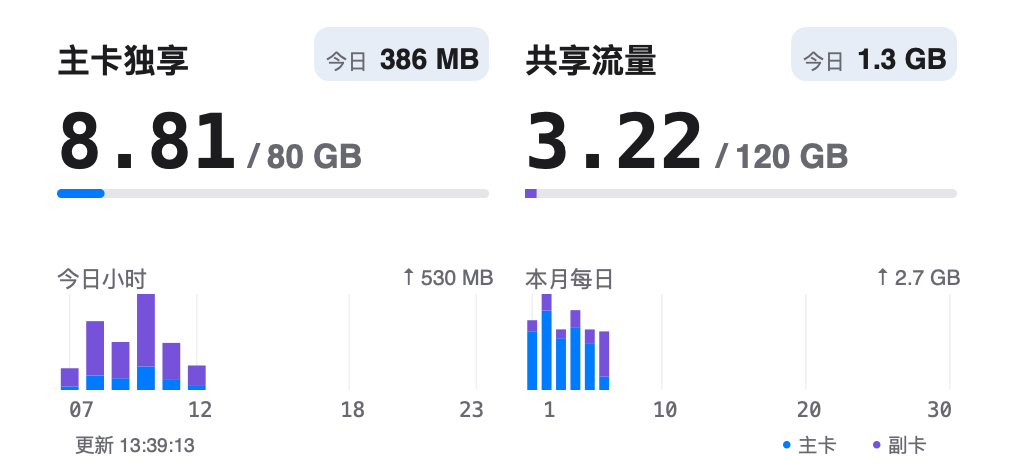
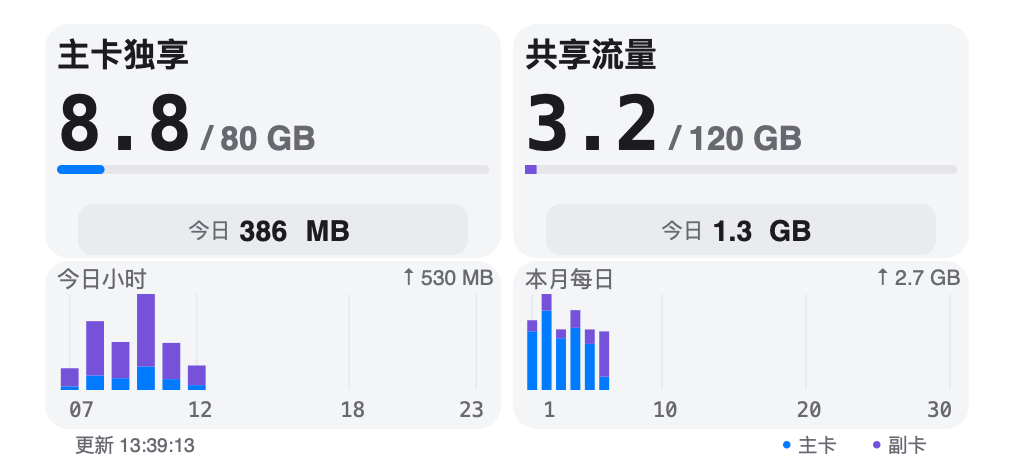
Refine Unicom widget panels and usage formatting

diff --git a/scriptable/UnicomFlow.js b/scriptable/UnicomFlow.js
@@ -40,7 +40,8 @@ const UF = {
   folder: 'UnicomFlow',
   usageFont: 'SF Mono Medium', totalFont: '系统 Medium', todayFont: '系统 Medium',
   usageFontSize: 25, totalFontSize: 11, todayFontSize: 9.5, titleFontSize: null,
-  bg: '1C1C1E', text: 'F5F5F7', muted: 'A4A4AA', track: '454548', todayBg: '32323A',
+  sectionBackground: true,
+  bg: '1C1C1E', text: 'F5F5F7', muted: 'A4A4AA', track: '454548', panelBg: '28282C', todayBg: '37373D',
   blue: '0A94FF', purple: '8A73FF', warning: 'FFD166', gridMajor: '38383C', gridMinor: '27272B',
 };
 const UF_DEFAULTS = { ...UF };
@@ -72,8 +73,8 @@ function normalizedTitleSize(value) {
 }
 
 const UF_THEMES = {
-  黑色: { bg: '1C1C1E', text: 'F5F5F7', muted: 'A4A4AA', track: '454548', todayBg: '32323A', blue: '0A94FF', purple: '8A73FF', warning: 'FFD166', gridMajor: '38383C', gridMinor: '27272B' },
-  白色: { bg: 'FFFFFF', text: '1C1C1E', muted: '686870', track: 'E5E5EA', todayBg: 'E6EDF6', blue: '007AFF', purple: '7552D9', warning: '946200', gridMajor: 'D1D1D6', gridMinor: 'F0F0F3' },
+  黑色: { bg: '1C1C1E', text: 'F5F5F7', muted: 'A4A4AA', track: '454548', panelBg: '28282C', todayBg: '37373D', blue: '0A94FF', purple: '8A73FF', warning: 'FFD166', gridMajor: '38383C', gridMinor: '333337' },
+  白色: { bg: 'FFFFFF', text: '1C1C1E', muted: '686870', track: 'E5E5EA', panelBg: 'F4F5F7', todayBg: 'E9EBEF', blue: '007AFF', purple: '7552D9', warning: '946200', gridMajor: 'D1D1D6', gridMinor: 'E7E8EC' },
 };
 
 function applyTheme(settings = {}) {
@@ -933,40 +934,15 @@ function todayBuckets(history, at) {
   return buckets;
 }
 
-// 仅压缩组件中的夜间横轴，不修改历史、统计页或其余小时归属。
+// 仅裁剪综合中号的前导低用量小时；至少12列，不修改历史或小时归属。
 function widgetHourSlots(history, at) {
   const report = hourlyReport(history, at);
   const slots = report.days.map((day, index) => ({ ...day, samples: day.intervals, weight: 1,
     label: [0, 6, 12, 18, 23].includes(index) ? String(index).padStart(2, '0') : '' }));
-  const start = new Date(new Date(at).getFullYear(), new Date(at).getMonth(), new Date(at).getDate()).getTime();
-  const end = new Date(start).setHours(6);
-  if (at < end) return slots;
-  const intervals = (history.events || []).filter(e => Number.isFinite(e.from) && Number.isFinite(e.at)
-    && e.from < e.at && e.at <= at && Number.isFinite(e.mb) && e.mb >= 0 && e.from < end && e.at > start)
-    .sort((a, b) => a.from - b.from);
-  let covered = start;
-  for (const e of intervals) {
-    if (e.from > covered) break;
-    covered = Math.max(covered, e.at);
-  }
-  // 边界区间不拆分；把整段用量计入阈值上界，宁可不折叠，也不漏掉跨边界的大用量。
-  if (covered < end || intervals.reduce((sum, e) => sum + e.mb, 0) >= 10) return slots;
-  // 正好06:00结束的区间属于夜间边界；仅在折叠视图中移入夜间柱，从06时柱扣除一次。
-  const boundary = intervals.filter(e => e.at === end && eventDate(e) === dayKey(at)
-    && new Date(e.assignedAt == null ? e.at : e.assignedAt).getHours() === 6);
-  const boundaryParts = usageSummary(boundary);
-  if (boundary.length) {
-    const six = slots[6];
-    for (const key of ['mb', 'mainMB', 'viceMB', 'unknownMB']) six[key] = Math.max(0, six[key] - boundaryParts[key]);
-    six.samples = six.intervals = Math.max(0, six.intervals - boundary.length);
-    if (!six.samples) for (const key of ['mb', 'mainMB', 'viceMB', 'unknownMB']) six[key] = null;
-  }
-  // 隐藏低用量夜间，不显示合并柱；白天从首个有用量小时起，后续小时连续保留。
-  // 尚无白天用量时保留06–23的位置；今日合计仍直接取原始历史，包含隐藏的夜间。
-  const active = slots.findIndex((d, index) => index >= 6 && !d.future && d.samples && d.mb > 0);
-  const first = active < 0 ? 6 : active;
+  const active = slots.findIndex(d => !d.future && d.samples && d.mb > 10);
+  const first = active < 0 ? 0 : Math.min(active, 12);
   return slots.slice(first).map((d, index) => ({ ...d,
-    label: index === 0 || [12, 18, 23].includes(index + first) ? String(index + first).padStart(2, '0') : '' }));
+    label: index === 0 || [6, 12, 18, 23].includes(index + first) ? String(index + first).padStart(2, '0') : '' }));
 }
 
 // ---- 手机端存储与请求 ----
@@ -1234,28 +1210,42 @@ function drawMetric(ctx, metric, label, x, y, width, compact, today = false, dai
 
 function drawCombinedMetric(ctx, metric, label, daily, x, width) {
   const title = ['通用', '定向'].includes(label) ? '数据流量·' + label : label;
-  const todayValue = formatMB(daily, 'daily').replace(/(MB|GB)$/, ' $1');
-  const stampLimit = width * 0.55, stampLabel = 7;
-  const todaySize = Math.min(UF.todayFontSize, (stampLimit - 26) / Math.max(1, numberWidth(todayValue, 1, 'today')));
-  const stampWidth = 26 + numberWidth(todayValue, todaySize, 'today'), stampX = x + width - stampWidth;
-  const titleWidth = stampX - x - 5;
+  const todayValue = formatMB(daily, 'daily');
+  const todayMatch = todayValue.match(/^(.*?)(MB|GB)$/);
+  const todayRuns = todayMatch ? [todayMatch[1], todayMatch[2]] : [todayValue];
+  const stampWidth = width - 14, stampLabel = 7, stampY = 68, stampH = 17;
+  // 整串含空格时真机会把MB/GB换到下一行；数字、单位分开绘制，并为字体实际字宽留余量。
+  const gap = 2, padding = 2;
+  const runUnits = todayRuns.map((run, index) => numberWidth(run, 1, 'today') * (index ? 1.2 : 1.05));
+  const todaySize = Math.min(UF.todayFontSize, (stampWidth - 25 - padding * todayRuns.length - gap * (todayRuns.length - 1))
+    / Math.max(1, runUnits.reduce((sum, n) => sum + n, 0)));
+  const runWidths = runUnits.map(n => n * todaySize + padding);
+  const groupWidth = 17 + runWidths.reduce((sum, n) => sum + n, 0) + gap * (todayRuns.length - 1);
+  const stampX = x + 7, groupX = x + (width - groupWidth) / 2;
+  const titleWidth = width;
   const titleSize = Math.min(UF.titleFontSize || 11, titleWidth / Math.max(1, title.length));
-  text(ctx, title, x, 13, titleWidth, 16, titleSize, UF.text, false, false, true);
-  roundedRect(ctx, stampX, 9, stampWidth, 18, 5, UF.todayBg);
-  text(ctx, '今日', stampX + 4, 16, 14, 11, stampLabel, UF.muted);
-  text(ctx, todayValue, stampX + 22, 23 - todaySize, stampWidth - 26, 18, todaySize, UF.text, 'today');
+  text(ctx, title, x, 11, titleWidth, 14, titleSize, UF.text, false, false, true);
+  if (UF.sectionBackground) roundedRect(ctx, stampX, stampY, stampWidth, stampH, 5, UF.todayBg);
+  // 数字、单位同字号同高度；标签与数值各自按行高垂直居中，整组水平居中。
+  const centeredY = size => stampY + (stampH - size * 1.2) / 2;
+  text(ctx, '今日', groupX, centeredY(stampLabel), 14, stampLabel * 1.2, stampLabel, UF.muted);
+  let todayX = groupX + 17;
+  todayRuns.forEach((run, index) => {
+    text(ctx, run, todayX, centeredY(todaySize), runWidths[index], todaySize * 1.2, todaySize, UF.text, 'today');
+    todayX += runWidths[index] + gap;
+  });
   const used = metric ? metric.used / 1024 : null;
-  const primary = used == null ? '—' : used > 0 && used < 0.01 ? '<0.01' : used.toFixed(2);
+  const primary = used == null ? '—' : used > 0 && used < 0.1 ? '<0.1' : used.toFixed(1);
   const quota = metric ? metric.total == null ? ' / 不限量' : ` / ${formatGB(metric.total, true)} GB` : '';
   const suffix = metric && metric.total == null ? ' GB' + quota : quota;
   const quotaSize = UF.totalFontSize;
   const primarySize = Math.min(UF.usageFontSize, (width - numberWidth(suffix, quotaSize, 'total') - 2)
     / Math.max(1, numberWidth(primary, 1, 'usage')));
   const valueWidth = numberWidth(primary, primarySize, 'usage');
-  text(ctx, primary, x, 31, valueWidth + 2, 29, primarySize, UF.text, 'number');
-  if (suffix) text(ctx, suffix, x + valueWidth + 2, 31 + primarySize - quotaSize,
+  text(ctx, primary, x, 25, valueWidth + 2, 29, primarySize, UF.text, 'number');
+  if (suffix) text(ctx, suffix, x + valueWidth + 2, 25 + primarySize - quotaSize,
     width - valueWidth - 2, 17, quotaSize, UF.muted, 'total');
-  const trackY = 63, trackH = 3;
+  const trackY = 55, trackH = 3;
   roundedRect(ctx, x, trackY, width, trackH, 1.5, UF.track);
   const c = metric && metric.composition;
   if (metric && metric.total > 0 && metric.used > 0) {
@@ -1266,18 +1256,18 @@ function drawCombinedMetric(ctx, metric, label, daily, x, width) {
       if (c.vice > 0) { ctx.setFillColor(new Color(UF.purple)); ctx.fillRect(new Rect(x + c.main * scale, trackY, c.vice * scale, trackH)); }
     } else if (!c) roundedRect(ctx, x, trackY, metric.used * scale, trackH, 1.5, UF.blue);
   }
-  if (c && !c.complete) text(ctx, '明细未确认', x, 67, width, 9, 6.5, UF.warning);
+  if (c && !c.complete) text(ctx, '明细未确认', x, 59, width, 8, 6.5, UF.warning);
   else if (c && c.main > 0) {
     const half = width / 2;
     for (const [index, name, value, color] of [[0, '主', c.main, UF.blue], [1, '副', c.vice, UF.purple]]) {
-      roundedRect(ctx, x + index * half, 69, 2, 2, 1, color);
-      text(ctx, `${name} ${formatMB(value).replace(/(MB|GB)$/, ' $1')}`, x + index * half + 4, 67,
-        half - 4, 9, 6.5, UF.muted);
+      roundedRect(ctx, x + index * half, 61, 2, 2, 1, color);
+      text(ctx, `${name} ${formatMB(value).replace(/(MB|GB)$/, ' $1')}`, x + index * half + 4, 59,
+        half - 4, 8, 6.5, UF.muted);
     }
   }
 }
 
-function drawCompactChart(ctx, slots, title, x, y, width) {
+function drawCompactChart(ctx, slots, title, x, y, width, hourly = false) {
   const sampled = slots.filter(d => !d.future && d.samples && d.mb != null);
   const peak = Math.max(0, ...sampled.map(d => d.mb)), max = Math.max(1, peak);
   const peakLabel = sampled.length ? formatMB(peak, 'daily').replace(/(MB|GB)$/, ' $1') : '—';
@@ -1311,6 +1301,7 @@ function drawCompactChart(ctx, slots, title, x, y, width) {
     }
     offset += cell;
   });
+  if (hourly && !peak) text(ctx, sampled.length ? '今日暂无用量' : '暂无记录', x, y + 9, width, 12, 7, UF.muted, false, true);
 }
 
 function renderImage(result, medium, width, height, mode = 'month') {
@@ -1335,11 +1326,16 @@ function renderImage(result, medium, width, height, mode = 'month') {
   const buckets = medium && today ? todayBuckets(result.history, now) : [];
   if (combined) {
     const leftX = pad + 6, col = (width - 2 * leftX - 12) / 2, rightX = leftX + col + 12;
+    // 底板只负责绘制，不参与内容坐标计算；相邻底板留4点缝隙，内容四周留4点。
+    if (UF.sectionBackground) for (const x of [leftX, rightX]) {
+      roundedRect(ctx, x - 4, 8, col + 8, 78, 8, UF.panelBg);
+      roundedRect(ctx, x - 4, 87, col + 8, 56, 8, UF.panelBg);
+    }
     drawCombinedMetric(ctx, metrics.left, metrics.leftLabel, daily[0], leftX, col);
     drawCombinedMetric(ctx, metrics.right, metrics.rightLabel, daily[1], rightX, col);
-    // 下半双图直接使用整卡背景，靠12点留白和列对齐分区。
+    // 下半双图的坐标与底色开关无关。
     const chartY = 98;
-    drawCompactChart(ctx, widgetHourSlots(result.history, now), '今日小时', leftX, chartY, col);
+    drawCompactChart(ctx, widgetHourSlots(result.history, now), '今日小时', leftX, chartY, col, true);
     const month = monthlyReport(result.history, now);
     const days = month.days.map((d, index) => ({ ...d, samples: d.intervals,
       label: [0, 9, 19, month.days.length - 1].includes(index) ? String(index + 1) : '' }));
@@ -1522,6 +1518,10 @@ function createWidgetClass(DmYY) {
         this.settings.mediumTypographyDefaultsApplied = true;
         changed = true;
       }
+      const sectionBackground = String(![false, 'false'].includes(this.settings.sectionBackground));
+      if (this.settings.sectionBackground !== sectionBackground) {
+        this.settings.sectionBackground = sectionBackground; changed = true;
+      }
       if (changed) this.saveSettings(false);
       this.name = '联通流量';
       this.en = 'UnicomFlow';
@@ -1529,6 +1529,7 @@ function createWidgetClass(DmYY) {
       this.result = null;
       this.failure = '';
       applyTheme(this.settings);
+      UF.sectionBackground = ![false, 'false'].includes(this.settings.sectionBackground);
       if (!this.settings.refreshAfterDate) this.settings.refreshAfterDate = String(UF_DEFAULTS.refreshMinutes);
       // 原间隔同时控制请求和组件，升级时保留用户已设置的查询频率。
       if (this.settings.dataRequestMinutes == null) this.settings.dataRequestMinutes = this.settings.refreshAfterDate;
@@ -1549,6 +1550,7 @@ function createWidgetClass(DmYY) {
       const crossLimit = Number(this.settings.crossDayLimitMB == null ? UF_DEFAULTS.crossDayLimitMB : this.settings.crossDayLimitMB);
       UF.crossDayLimitMB = Number.isFinite(crossLimit) && crossLimit >= 0 && crossLimit <= 1024 ? crossLimit : UF_DEFAULTS.crossDayLimitMB;
       applyTheme(this.settings);
+      UF.sectionBackground = ![false, 'false'].includes(this.settings.sectionBackground);
       UF.titleFontSize = normalizedTitleSize(this.settings.titleFontSize);
       for (const kind of ['usage', 'total', 'today']) {
         UF[kind + 'Font'] = normalizedNumberFont(this.settings[kind + 'Font'], UF_DEFAULTS[kind + 'Font']);
@@ -1831,12 +1833,12 @@ function createWidgetClass(DmYY) {
           options: Object.keys(UF_NUMBER_FONTS), defaultValue: this.settings[kind + 'Font'], icon: { name: 'textformat', color: '#007AFF' } },
         { name: kind + 'FontSize', val: kind + 'FontSize', title: '文字大小', type: 'input',
           defaultValue: String(normalizedFontSize(this.settings[kind + 'FontSize'], kind)),
-          desc: `${kind === 'today' ? '综合中号标题右侧' : '小号、中号共用'}；输入 ${min}—${max}，支持小数；内容过宽时自动缩小`,
+          desc: `${kind === 'today' ? '综合中号今日强调行' : '小号、中号共用'}；输入 ${min}—${max}，支持小数；内容过宽时自动缩小`,
           icon: { name: 'textformat.size', color: '#007AFF' },
           onClick: async (_, __, view) => {
             const key = kind + 'FontSize';
             const a = new Alert(); a.title = title + '大小';
-            a.message = `${kind === 'today' ? '综合中号标题右侧今日用量。' : '小号、中号共用。'}请输入 ${min}—${max} 之间的字号，支持小数；内容过宽时自动缩小。`;
+            a.message = `${kind === 'today' ? '综合中号今日强调行。' : '小号、中号共用。'}请输入 ${min}—${max} 之间的字号，支持小数；内容过宽时自动缩小。`;
             a.addTextField(String(UF_DEFAULTS[key]), String(normalizedFontSize(this.settings[key], kind)));
             a.addAction('保存'); a.addCancelAction('取消');
             if (await a.presentAlert() < 0) return;
@@ -1913,6 +1915,8 @@ function createWidgetClass(DmYY) {
       this.registerAction({ title: '组件配置', menu: [
         action('flowUpdate', '脚本更新', 'arrow.down.circle', '#007AFF', () => this.checkAndUpdateScript()),
         { name: 'theme', val: 'theme', title: '组件主题', type: 'select', options: ['黑色', '白色'], defaultValue: '黑色', icon: { name: 'circle.lefthalf.filled', color: '#555555' } },
+        { name: 'sectionBackground', val: 'sectionBackground', title: '内容分区底色', type: 'switch', defaultValue: 'true',
+          desc: '仅综合中号；开关只改变底色，内容位置与尺寸保持一致', icon: { name: 'square.grid.2x2.fill', color: '#8E8E93' } },
         action('flowFonts', '字体与字号', 'textformat', '#007AFF', () => this.fontSettings()),
         action('flowColors', '颜色配置', 'paintpalette.fill', '#AF52DE', () => this.colorSettings()),
         action('flowRefreshSettings', '刷新设置', 'timer', '#34C759', () => this.refreshSettings()),

diff --git a/docs/unicom-flow/README.md b/docs/unicom-flow/README.md
@@ -19,11 +19,13 @@
 
 今日视图标题为“共享流量 · 今日”／“主卡独享 · 今日”（未识别共享属性时沿用通用／定向分类），大数字显示该组套餐的今日已记录增量；下方固定使用 GB，格式如 `6.8 / 120 GB`，斜杠两侧和数字与单位间各留固定 2 点间距，不加“本月”文字、不显示百分比。竖条仍表示月套餐已用比例。图表只保留主卡／副卡色点和名称，不重复用量数字；共享池下方不再额外显示逐卡月用量。今日中号继续显示一张完整宽度的小时图，两种模式的底部图例统一为“主卡／副卡”，不显示用量数字。
 
-本月中号采用综合布局，不新增参数：左主卡独享、右共享流量，未识别共享属性时回退通用／定向。卡片上半部保持白底，两列套餐不套独立底板：标题右侧用小胶囊显示“今日”及合计，月已用大数字和总量同排（如 `8.81 / 80 GB`），底部保留2—3点高的横向月进度条，不显示百分比。月已用和总量继续分别使用菜单原有的“用量文字”“总量与百分比”字体、字号设置；今日胶囊的数字及单位使用新增“今日用量（综合中号）”独立设置。白色、黑色主题均有对应浅底。共享池主卡用量确认为0且成员合计完整时，不显示逐卡明细；主卡实际共享用量大于0时，在月进度条下显示一行本月主／副卡用量；成员缺失或合计不符时显示“明细未确认”，保留灰条，不猜测。共享月进度条以套餐总量为整条宽度，蓝色主卡、紫色副卡相邻堆叠，不夸大短段；今日不再重复逐卡数字。
+本月中号采用综合布局，不新增参数：左主卡独享、右共享流量，未识别共享属性时回退通用／定向。上方显示套餐标题、同排月已用和总量（如 `8.8 / 80 GB`，月已用保留一位小数，非零不足0.1 GB显示 `<0.1`，零显示 `0.0`），横向月进度条不显示百分比；进度条下方的“今日”强调行整体水平居中，标签、数值与单位分别按文字行高垂直居中，底框两侧各内收7点。月已用、总量和今日继续分别使用菜单中的三组字体与字号；今日数字、MB／GB分开绘制，采用相同字体、字重、字号及2点间距，避免真机单位换行。共享池主卡用量确认为0且成员合计完整时，不显示逐卡明细；主卡实际共享用量大于0时，在月进度条和今日行之间保留一行本月主／副卡用量；成员缺失或合计不符时显示“明细未确认”，保留灰条，不猜测。共享月进度条以套餐总量为整条宽度，蓝色主卡、紫色副卡相邻堆叠，不夸大短段；今日不重复逐卡数字。
 
-综合中号底部左侧为“今日小时”，右侧为“本月每日”，都统计全部套餐；蓝色主卡包含独享和共享，紫色副卡为其共享用量，未知归属使用提示色。图表分区从158点设计高度的79点开始，严格位于下半部，直接使用整卡背景，不铺图表底色；靠12点列间距与上方套餐列对齐来区分，不加底板、描边或分隔线，仅保留标题右侧今日胶囊的浅底强调；两图分别缩放并显示峰值。更新时间在左下角、图例在右下角；综合中号两者分别向中间内收10点并下移4点，保留圆角安全区，双图刻度与底部信息保留独立空间。双位小时／日期标签至少预留14点宽及11点高，避免真机截断。没有采样和未来位置留空，真实零值才画短标记。月图按实际月份保留28—31个逐日位置，只标1、10、20及月末，不添加今日黑点标记。
+“组件配置 → 内容分区底色”开关默认开启，仅影响本月综合中号。两块套餐区与两块图表区使用统一中性底色，白色主题浅灰、黑色主题深灰；今日条使用稍深一级的中性色，不用蓝紫色给整块染色。底板在既定内容坐标后方绘制，水平间隙4点，内容左右内边距4点，纵向留白收紧；无描边。关闭时只移除分区底板和今日条底色，文字、进度条、图表、刻度、更新时间、图例的位置、字号及尺寸完全不变；小号与独立今日中号不受开关影响。
 
-仅综合中号的小时图会隐藏低用量夜间：00—06点已完整结束、有效采样区间连续覆盖全段，且包含跨边界区间在内的用量上界严格小于10 MB时，不画“00–06”合并柱或夜间数值；横轴从06点后首个有正用量的小时起显示，例如07，并连续保留至23点，中间的零值、缺采样和未来位置不删除。尚无白天正用量时保留06—23的位置。正好06:00结束的夜间区间不在06时重复绘制。隐藏的夜间仍计入今日总量；达到10 MB、06点前、区间有缺口或跨边界用量无法确认时保留完整00—23。仅改变综合中号显示，不修改历史、独立今日中号或统计页。
+综合中号底部左侧为“今日小时”，右侧为“本月每日”，都统计全部套餐；蓝色主卡包含独享和共享，紫色副卡为其共享用量，未知归属使用提示色。两图固定于下半部，分别缩放并显示峰值。更新时间在左下角、图例在右下角；综合中号两者分别向中间内收10点并下移4点，保留圆角安全区，双图刻度与底部信息保留独立空间。双位小时／日期标签至少预留14点宽及11点高，避免真机截断。没有采样和未来位置留空，真实零值才画短标记。小时图没有记录时显示“暂无记录”，有采样且用量确认为零时显示“今日暂无用量”；微量仍绘制实际柱子。月图按实际月份保留28—31个逐日位置，只标1、10、20及月末，不添加今日黑点标记。
+
+综合中号的小时图从首个主副卡及未知归属合计严格超过10 MB的小时起显示，连续保留到23点，中间的零值、缺采样和未来位置不删除。最少保留12列：首个超过阈值的小时晚于12点时，将起点提前至12点，例如20点才起量仍显示12—23点。全天没有超过阈值的小时（包括恰好10 MB）、零用量或暂无记录时，保留完整00—23点。没有固定的00—06点判断，不修改采样小时归属。隐藏时段仍计入今日总量；仅改变综合中号显示，不修改历史、独立今日中号或统计页。
 
 日用量直接复用原有同日区间记录，不另存套餐增量或今日累计值，不清空旧历史。当前账户此前主卡未使用共享池，且只显示共享／独享两类套餐：当共享主卡累计值仍确认为零时，原副卡增量对应共享池，原主卡增量对应主卡独享；独享包一直明确计入主卡，因此旧记录中未知成员归属的增量仍可合并到共享池。若主卡开始使用共享池、有其他分类混入或当前成员归属不完整，旧记录无法精确拆分，显示 `—`，不按比例猜测。单一套餐分类可直接复用总增量，确认总增量为零时各套餐也为零。上一版冗余的 `packageDeltas` 字段在正常保存历史时移除，其余原记录保留；新增零区间不会覆盖已有今日用量。无有效记录显示 `—`，真实零增量显示 `0 MB`；底部正常显示更新时间，不再附加“今日已记录”；数据缺失时保留“今日待采样”或“今日分类未确认”，查询失败仍优先显示缓存状态。符合阈值的跨午夜小流量近似归入对应日期，其余跨午夜区间不拆分到今日，长时间未刷新可能漏记；不是运营商详单。
 
@@ -36,7 +38,7 @@
 - 用量与数据：用量统计（单日／单月／月度趋势，网页右上角可查看刷新记录）、刷新记录、立即刷新数据。
 - 维护：重载组件、数据存储（总文件大小及文件明细；按最新套餐快照、刷新记录、小时用量记录、每日用量记录分别清除，或清除全部历史；保留确认）、高级设置（账户说明、BoxJS 域名、套餐分类、连接检查、成员字段检查）。
 
-主菜单共12个入口；打开菜单、高级设置、刷新设置均不查询账户。预览复用共享缓存，无有效缓存时查询一次，失败有旧缓存则展示缓存，否则提示连接错误。DmYY 自动插入的分尺寸预览入口在本脚本配置页中过滤，不修改共享依赖。
+主菜单共13个入口；打开菜单、高级设置、刷新设置均不查询账户。预览复用共享缓存，无有效缓存时查询一次，失败有旧缓存则展示缓存，否则提示连接错误。DmYY 自动插入的分尺寸预览入口在本脚本配置页中过滤，不修改共享依赖。
 
 “立即刷新数据”是直接读取 `@YaYa_10010.cookie` 后刷新套餐，不调用 DmYY 的批量导入方法；不把 Cookie 保存进 DmYY 设置。DmYY 只保存颜色、刷新间隔等界面配置。
 
@@ -54,7 +56,7 @@
 
 独享流量优先：小号上方为主卡独享、下方为共享流量；中号左侧为主卡独享、右侧为共享流量。本月、今日两种模式顺序一致，通用／定向的回退顺序不变。
 
-“组件配置 → 字体与字号”分别设置**用量文字**、**总量与百分比**和**今日用量（综合中号）**，三组可以选择不同字体和字号；每组只有一个字体菜单，选项为系统 Regular、系统 Medium、SF Mono Regular、SF Mono Medium、Menlo Regular。Menlo 没有原生 Medium，不作伪造或替代；不可用时回退系统等宽 Regular。选择菜单沿用 DmYY 普通文字，不提供字体预览。小号、中号共用设置，默认用量 SF Mono Medium 25 号、总量系统 Medium 11 号；直接输入数字（支持小数），用量允许 12—28，总量允许 6—14，超宽文字自动缩小以适应卡片，不改变保存的字号。旧数字字体设置自动迁移到用量、总量两组字体；新增今日设置独立采用默认系统 Medium 9.5号，不覆盖已保存的用量／总量设置，允许6—14号（支持小数），只影响综合中号标题右侧的今日数字和单位，不改变小号或独立今日视图。三组文字过宽时只缩小实际绘制字号，不修改保存值。上一版完整默认组合会一次性切换到新默认，已自定义的组合保留，不清除历史。用量行略上移、总量行略下移，为 Medium 25 号留出间距。用量数字和总量从竖条右侧同一位置起排，MB／GB 单位与用量数字使用相同字体、字重、字号，以 2 点窄间距分隔，避免等宽字体普通空格过宽；超宽时数字和单位同步缩小。总量的数字与单位也采用固定 2 点窄间距，单位与百分比括号之间不加空格，例如 `120 GB(6%)`。主副卡说明使用系统常规字体，标题使用系统中等字重，小时／日期刻度保留等宽字体。“标题文字”另提供独立字号输入，大小号共用，允许 8—12（支持小数）；留空恢复小号10、中号11，长标题自动缩小以适应宽度。大数字表示已用，下方表示套餐总量和已用百分比，小号与独立今日中号继续使用数字左侧的竖进度条，从底部向上增长；本月综合中号使用上述横向分段进度条。主卡独享等普通套餐的竖条表示已用比例；共享池的整条高度代表套餐总量，底部蓝色段表示主卡已用、其上紫色段表示副卡已用，剩余灰色表示未用流量。例如共享总量 120 GB、主卡已用 1.2 GB、副卡已用 2.02 GB 时，两段合计只占整条约 2.68%。下方标明两张卡各自的共享用量，蓝色为主卡、紫色为副卡；主卡共享用量确认为 0 且逐卡合计完整时，小号与中号都省略这组图例，数据缺失时仍保留提示；成员缺失或合计不符时保留灰条并提示，不推算缺失用量。左右留白按 158 点设计高度收窄为 13 点，小号顶部为 12 点；共享条的彩色段同样使用圆头，短段按实际高度绘制椭圆圆角，不夸大用量；大小卡片底部均显示精确到秒的最后一次成功查询时间，小号、中号均不显示刷新图标、不设置单独的刷新点击区域，中号整卡链接打开本地用量统计，保留圆角安全留白。缓存或未识别明细的提示仍保留在安全区域内。不同手机尺寸统一按设计高度缩放布局。整卡使用背景图填满组件，避免固定宽度内容图片产生边缘细线；小时标签、竖线、柱子共用每格中心点对齐。在“组件配置 → 组件主题”选择黑色或白色，默认黑色，不随系统自动变化。两种主题分别保存自定义颜色，切换后文字、刻度、背景和提示颜色一起变化；可在“颜色配置”中调整当前主题。原版本的颜色设置仅迁移到黑色主题，避免白色主题套用旧的黑底配置。不限量套餐不计算百分比；没有返回某一类明细时显示 `--`，不伪装成 0。
+“组件配置 → 字体与字号”分别设置**用量文字**、**总量与百分比**和**今日用量（综合中号）**，三组可以选择不同字体和字号；每组只有一个字体菜单，选项为系统 Regular、系统 Medium、SF Mono Regular、SF Mono Medium、Menlo Regular。Menlo 没有原生 Medium，不作伪造或替代；不可用时回退系统等宽 Regular。选择菜单沿用 DmYY 普通文字，不提供字体预览。小号、中号共用设置，默认用量 SF Mono Medium 25 号、总量系统 Medium 11 号；直接输入数字（支持小数），用量允许 12—28，总量允许 6—14，超宽文字自动缩小以适应卡片，不改变保存的字号。旧数字字体设置自动迁移到用量、总量两组字体；新增今日设置独立采用默认系统 Medium 9.5号，不覆盖已保存的用量／总量设置，允许6—14号（支持小数），只影响综合中号今日强调行的数字和单位，不改变小号或独立今日视图。三组文字过宽时只缩小实际绘制字号，不修改保存值。上一版完整默认组合会一次性切换到新默认，已自定义的组合保留，不清除历史。用量行略上移、总量行略下移，为 Medium 25 号留出间距。用量数字和总量从竖条右侧同一位置起排，MB／GB 单位与用量数字使用相同字体、字重、字号，以 2 点窄间距分隔，避免等宽字体普通空格过宽；超宽时数字和单位同步缩小。总量的数字与单位也采用固定 2 点窄间距，单位与百分比括号之间不加空格，例如 `120 GB(6%)`。主副卡说明使用系统常规字体，标题使用系统中等字重，小时／日期刻度保留等宽字体。“标题文字”另提供独立字号输入，大小号共用，允许 8—12（支持小数）；留空恢复小号10、中号11，长标题自动缩小以适应宽度。大数字表示已用，下方表示套餐总量和已用百分比，小号与独立今日中号继续使用数字左侧的竖进度条，从底部向上增长；本月综合中号使用上述横向分段进度条。主卡独享等普通套餐的竖条表示已用比例；共享池的整条高度代表套餐总量，底部蓝色段表示主卡已用、其上紫色段表示副卡已用，剩余灰色表示未用流量。例如共享总量 120 GB、主卡已用 1.2 GB、副卡已用 2.02 GB 时，两段合计只占整条约 2.68%。下方标明两张卡各自的共享用量，蓝色为主卡、紫色为副卡；主卡共享用量确认为 0 且逐卡合计完整时，小号与中号都省略这组图例，数据缺失时仍保留提示；成员缺失或合计不符时保留灰条并提示，不推算缺失用量。左右留白按 158 点设计高度收窄为 13 点，小号顶部为 12 点；共享条的彩色段同样使用圆头，短段按实际高度绘制椭圆圆角，不夸大用量；大小卡片底部均显示精确到秒的最后一次成功查询时间，小号、中号均不显示刷新图标、不设置单独的刷新点击区域，中号整卡链接打开本地用量统计，保留圆角安全留白。缓存或未识别明细的提示仍保留在安全区域内。不同手机尺寸统一按设计高度缩放布局。整卡使用背景图填满组件，避免固定宽度内容图片产生边缘细线；小时标签、竖线、柱子共用每格中心点对齐。在“组件配置 → 组件主题”选择黑色或白色，默认黑色，不随系统自动变化。两种主题分别保存自定义颜色，切换后文字、刻度、背景和提示颜色一起变化；可在“颜色配置”中调整当前主题。原版本的颜色设置仅迁移到黑色主题，避免白色主题套用旧的黑底配置。不限量套餐不计算百分比；没有返回某一类明细时显示 `--`，不伪装成 0。
 
 脚本调用联通的套餐明细接口 `queryOcsPackageFlowLeftContentRevisedInJune`。其明细中的 `total/use/remain` 默认以 MB 计，明确带单位的数值按单位换算；不从首页汇总值推算通用／定向数据。
 
@@ -122,7 +124,7 @@
 
 ## 历史图
 
-数值精度：小组件 GB 用量保留一位，今日视图下方统一 GB 时不足 1 GB 保留两位。MB 用量大于等于10时保留整数，0.1至不足10时保留一位（舍入到10时显示10），非零且不足0.1时显示 `<0.1 MB`；真实零显示 `0 MB`，不换算 KB。月用量与今日用量采用相同 MB 规则。套餐总量默认一位，小数尾零去除（如 `120GB`、`80.5GB`）。统计网页非零用量统一两位，非零但不足 0.01 个显示单位时显示 `<0.01`，无数据为 `—`，确认零用量为 `0MB`（网页单位前留空格），百分比仍为整数。只改变显示，不改变统计精度或历史数据。
+数值精度：综合中号顶部月已用固定使用GB并保留一位小数，非零不足0.1 GB显示 `<0.1`，真实零显示 `0.0`，无数据为 `—`；套餐总量规则不变，最多两位并去掉末尾零。其余小组件 GB 用量保留一位，今日视图下方统一 GB 时不足 1 GB 保留两位。MB 用量大于等于10时保留整数，0.1至不足10时保留一位（舍入到10时显示10），非零且不足0.1时显示 `<0.1 MB`；真实零显示 `0 MB`，不换算 KB。月用量与今日用量采用相同 MB 规则。套餐总量默认一位，小数尾零去除（如 `120GB`、`80.5GB`）。统计网页非零用量统一两位，非零但不足 0.01 个显示单位时显示 `<0.01`，无数据为 `—`，确认零用量为 `0MB`（网页单位前留空格），百分比仍为整数。只改变显示，不改变统计精度或历史数据。
 
 中号图表随参数切换：`today` 显示今天 00—23 时的小时分布，标题“小时用量”；留空或 `month` 使用上述综合中号双图，其中月图标题“本月每日”，按当月实际天数绘制，日期刻度为1、10、20及月末日。月图直接读取已有每日用量记录，小时明细超过七天后月图仍能显示，不新增存储；无法拆分到某一天的跨午夜区间不塞入每日柱子，因此柱子合计可能低于月度统计合计。整卡图例统一移至中号卡片底部右侧，与更新时间同一行横排“蓝点＋主卡、紫点＋副卡”，同时解释套餐进度条和用量图，不再附加用量数字。小时／每日柱均保留主副卡堆叠颜色，未知归属仍用黄色表示，其详细数值在统计网页查看。图表底部保留更新时间，小号不增加图表。利用上方留白将柱图区高度由29增至35个设计点（约21%），标题、图例同步上移6点，柱子底边、刻度和更新时间不变；综合中号采用固定上下各半的布局，主副卡月明细出现在上半套餐分区内，双图不会因明细而侵入上半区域。
 
@@ -210,7 +212,7 @@
 
 ![中号黑色主题](preview-medium.png)
 
-![综合中号白色主题：主卡尚未使用共享池，低用量夜间隐藏](preview-medium-light.png)
+![综合中号白色主题：统一浅灰分区底色，今日居中，前导低用量小时隐藏](preview-medium-light.png)
 
 ![综合中号白色主题：独享耗尽后主副卡同时使用共享池](preview-medium-shared-light.png)
 
@@ -232,7 +234,7 @@
 
 刷新记录页“清除记录”通过原生确认仅清除刷新时间和间隔，完成后原页立即显示清空状态，不查询联通。数据存储页将“清除最新套餐快照”“清除全部历史”独立放在底部“谨慎清理”分块，以橙色文档和红色警告图标区分，仍需逐项确认。
 
-小组件的 MB 显示：大于等于10 MB四舍五入为整数；0.1至不足10 MB保留一位小数（舍入到10时显示10）；非零且不足0.1 MB显示 `<0.1 MB`，零显示 `0 MB`。适用于小号、独立今日视图及综合中号的今日行，原始数据不变；综合中号顶部月用量固定使用GB并保留两位小数，非零不足0.01 GB显示 `<0.01`，总量省略无意义的小数零。统计网页仍保留两位小数；MB／GB换算仍沿用1024，未更改接口数据口径。
+小组件的 MB 显示：大于等于10 MB四舍五入为整数；0.1至不足10 MB保留一位小数（舍入到10时显示10）；非零且不足0.1 MB显示 `<0.1 MB`，零显示 `0 MB`。适用于小号、独立今日视图及综合中号的今日行，原始数据不变；综合中号顶部月用量固定使用GB并保留一位小数，非零不足0.1 GB显示 `<0.1`，真实零显示 `0.0`，总量省略无意义的小数零。统计网页仍保留两位小数；MB／GB换算仍沿用1024，未更改接口数据口径。
 
 用量统计的“明细记录”默认折叠，点击标题展开或收起；展开后仍可左右滑动表格。单日、单月和月度趋势共用此折叠区域，切换周期不强制重置展开状态。
 
